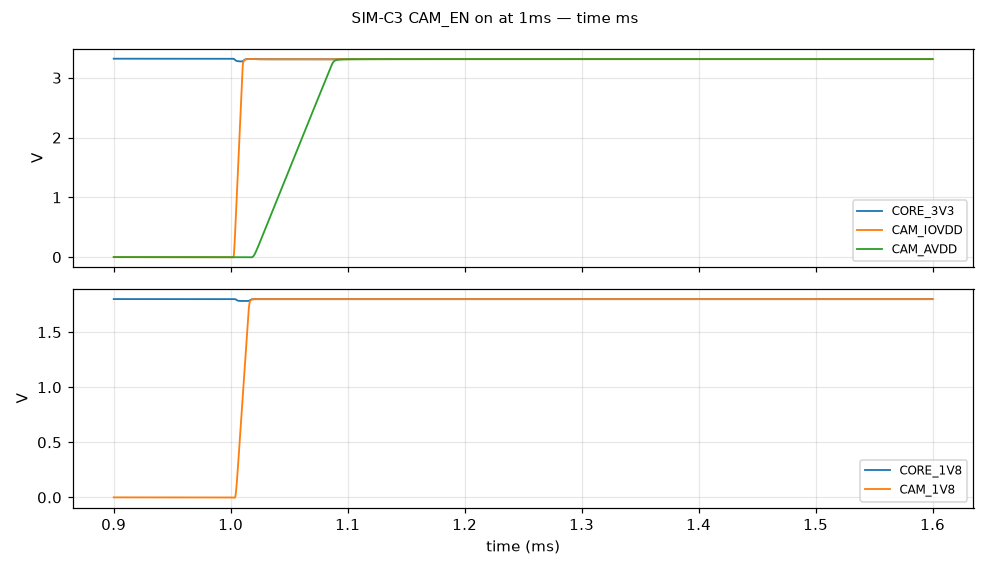
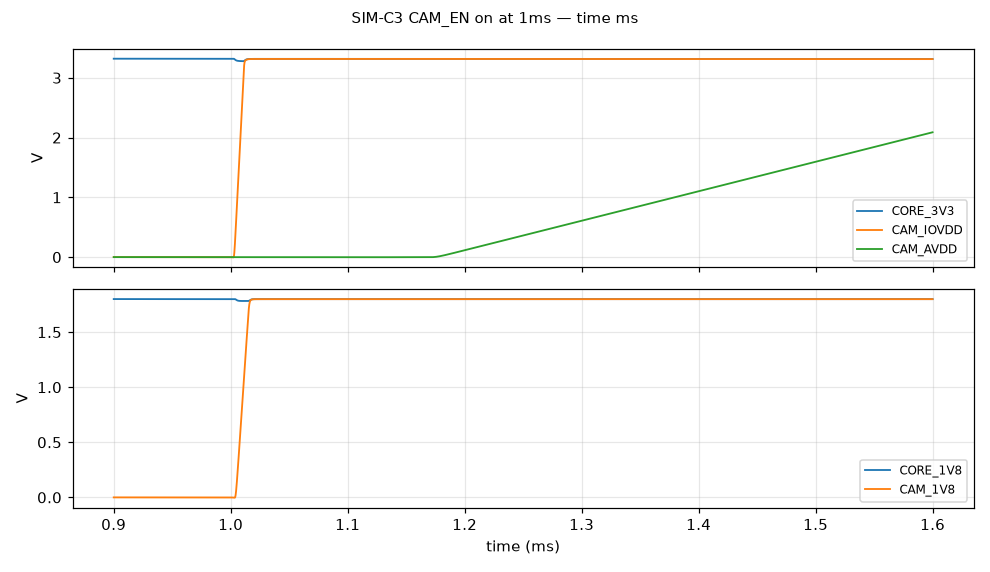
SIM-001d: C-020(a2d878c) 게이트 결선으로 SIM-C3 넷리스트 갱신, 같은 기준 64bde61 재실행 — run_all.py 종료 0(15/15), C3 CORE_3V3 강하 0.041V

diff --git a/hardware/sim/run_all.py b/hardware/sim/run_all.py
@@ -11,7 +11,7 @@ import matplotlib.pyplot as plt
 HERE = os.path.dirname(os.path.abspath(__file__))
 NG = os.environ.get('NGSPICE', r'C:\Users\gh\tools\ngspice\47\Spice64\bin\ngspice_con.exe')
 CRITERIA_COMMIT = '64bde61'  # d00a3ac + A4(781961b) + 개정 1 ef3c0d0 + 개정 2 (R-021 GST40A12-P1J)
-SCH_COMMIT = '7760f38'  # C-019 (R2 78.7k / R3 10.7k, 전면 R20·C20·C21) — C-018 R6 6.04k 포함
+SCH_COMMIT = 'a2d878c'  # C-020 (S6 전면 R20·R5 100k, R21 1k, D4·D5 BAT54) — C-019 R2 78.7k/R3 10.7k·C20/C21, C-018 R6 6.04k 포함
 FB_R2, FB_R3 = 78.7e3, 10.7e3   # 캐리어 TPS54302 FB 분압 (C-019; C-018 까지 100k/13.3k)
 TOOL = {'name': 'ngspice', 'version': 'ngspice-47 (공식 SourceForge ng-spice-rework/47/ngspice-47_64.7z)',
         'sha256': '59225971… (7z, firmware 설치·검증 — orch O-81)', 'path': NG.replace('\\', '/')}
@@ -660,8 +660,12 @@ C18p c18 0 8.5u
 Ven en 0 PULSE(0 1 1m 1u 1u 1 2)
 R4 c33 pg 100k
 Sq3 pg 0 en 0 SQ
-R5 pg pgav 10k
-Rf20 pg pgio 1k
+* C-020 S6: Q1 게이트 R20 100k ∥ (R21 1k + D4 BAT54, 애노드 pgiod → 캐소드 pg), Q2 게이트 R5 100k ∥ D5 BAT54 (애노드 pg → 캐소드 pgav)
+R5 pg pgav 100k
+Df5 pg pgav DBAT
+Rf20 pg pgio 100k
+Rf21 pgio pgiod 1k
+Df4 pgiod pg DBAT
 Cf20 pgio iov 4.7n
 Mq1 iov pgio c33 c33 PAO
 Cg1 pgio c33 645p
@@ -694,6 +698,8 @@ Csd sdv 0 11.1u
 Rsd sdv 0 16.5
 R23 sdv 0 100k
 .model SQ SW(Ron=1 Roff=1e9 Vt=0.5)
+* BAT54WS: VF 0.32 V @ 10 mA (최대값에 맞춘 근사 — Diodes BAT54WS 데이터시트), CJ 10 pF
+.model DBAT D(IS=4e-8 N=1 RS=2 CJO=10p BV=30)
 .options method=gear
 .control
 set wr_singlescale
@@ -717,7 +723,7 @@ quit
     out.append(save('SIM-C3', '스위치 켬 순간 코어 레일 강하 (CAM_EN · SD0_PWR_EN)', 'carrier+front', ['front Q1', 'Q2', 'Q3', 'Q6', 'Q7', 'R18', 'C19', 'carrier Q2', 'R22', 'C21'],
         {'source': '레벨 1 MOSFET(전형) + 코어 레일 등가(가정)', 'url': DS['AO3401A'] + ' · ' + DS['DMG2305UX'] + ' · ' + DS['CORE'], 'license': '이 저장소 작성', 'behavioral': True,
          'basis': '코어 레일: 이상 전원 + 0.1 Ω(SIM-001b 와 같은 가정) + 로컬 C (코어 SCH 03 출력 C, DC 바이어스 감액 가정). 센서 레일 부하 30 mA, X1 450 Ω, SD 카드 10 µF·0.2 A (가정)'},
-        [chk('CAM_EN 켬: CORE_3V3 강하', '<=', 0.166, d33c, 'V', 'C-019: Q1 게이트 R20 1k + C20 4.7 nF, Q2 R5 10k + C21 4.7 nF (밀러)'),
+        [chk('CAM_EN 켬: CORE_3V3 강하', '<=', 0.166, d33c, 'V', 'C-020 S6: Q1 R20 100k ∥ (R21 1k + D4), Q2 R5 100k ∥ D5, C20·C21 4.7 nF (밀러)'),
          chk('CAM_EN 켬: CORE_1V8 강하 (C-018 R17 4.7k·R18·C19 4.7n)', '<=', 0.09, d18, 'V', ''),
          chk('SD0_PWR_EN 켬: CORE_3V3 강하', '<=', 0.166, d33s, 'V', 'R22 47k / C21 100 nF')],
         pngs, 'SIM-C3.cir', f'기준선 CORE_3V3 {b33:.3f} V, CORE_1V8 {b18:.3f} V (0.1 Ω 경로 강하 포함). 코어 쪽 실제 디커플링(SoC 주변 C)은 더 크므로 강하는 이보다 작을 수 있다.'))

diff --git a/hardware/sim/README.md b/hardware/sim/README.md
@@ -74,3 +74,18 @@
 - 코어 내부 전원 순서(PWR_SEQ)는 가정이다.
 - AL8860 부하는 25% 듀티 전류원으로 두었다(두 스트링 같은 위상 = 최악). 실제 스트링 동작은 firmware SIM-001b가 맡는다.
 - GST25A12 hiccup 참고 시험은 어댑터가 꺼진 뒤 붕괴 구간에서 ngspice가 일찍 끝날 수 있다. 그래서 5V 최소 0V는 「꺼짐」의 뜻으로만 읽는다.
+
+## SIM-001d — C-020 게이트 결선으로 재실행 (orch, 2026-11-27)
+
+- **대상:** 회로도 C-020 `a2d878c` (S6)
+  - 전면 R20 100k ∥ (R21 1k + D4 BAT54)
+  - R5 100k ∥ D5 BAT54
+  - C20·C21 4.7nF
+- **기준:** 바꾸지 않았다(`64bde61`).
+- **SIM-C3 넷리스트:** Q1·Q2 게이트 결선을 위와 같이 갱신했다. BAT54WS는 VF 0.32V @ 10mA 최대값에 맞춘 다이오드 근사(IS 4e-8, RS 2Ω, CJ 10pF)로 넣었다.
+- **결과:** `run_all.py` 종료 **0** (15/15 pass)
+  - SIM-C3 CAM_EN 켤 때 CORE_3V3 강하 **0.041V** (≤ 0.166V). C-019 때는 0.046V.
+  - CORE_1V8 강하 0.018V, SD 강하 0.034V
+  - 그림 [SIM-C3-cam.png](png/SIM-C3-cam.png): IOVDD가 먼저 오른다(약 10µs). AVDD는 약 170µs 뒤에 오르기 시작한다(firmware SIM-001c ②의 180µs와 맞음).
+  - 나머지 A·B·C·D 항목은 값이 C-019 재실행과 같다(회로 변경 없음).
+- 이 폴더의 SIM-L*·SIM-001b/c 파일은 firmware 몫이라 건드리지 않았다.

diff --git a/hardware/sim/SIM-A5-current-order.md b/hardware/sim/SIM-A5-current-order.md
@@ -1,6 +1,6 @@
 # SIM-A5 12V 전류 순서 표 (run_all.py 가 만든다)
 
-- 회로도 R6 = **6.04 kΩ** (`7760f38`) · 기준 `64bde61` · I(OL) = 12 / R(kΩ) (SLVSDG2G Equation 3, 22쪽), 허용 오차 5.4 % (7.5 표) + R ±1 %
+- 회로도 R6 = **6.04 kΩ** (`a2d878c`) · 기준 `64bde61` · I(OL) = 12 / R(kΩ) (SLVSDG2G Equation 3, 22쪽), 허용 오차 5.4 % (7.5 표) + R ±1 %
 
 | 줄 | 최소 | 전형 | 최대 | 근거 |
 |---|---|---|---|---|
